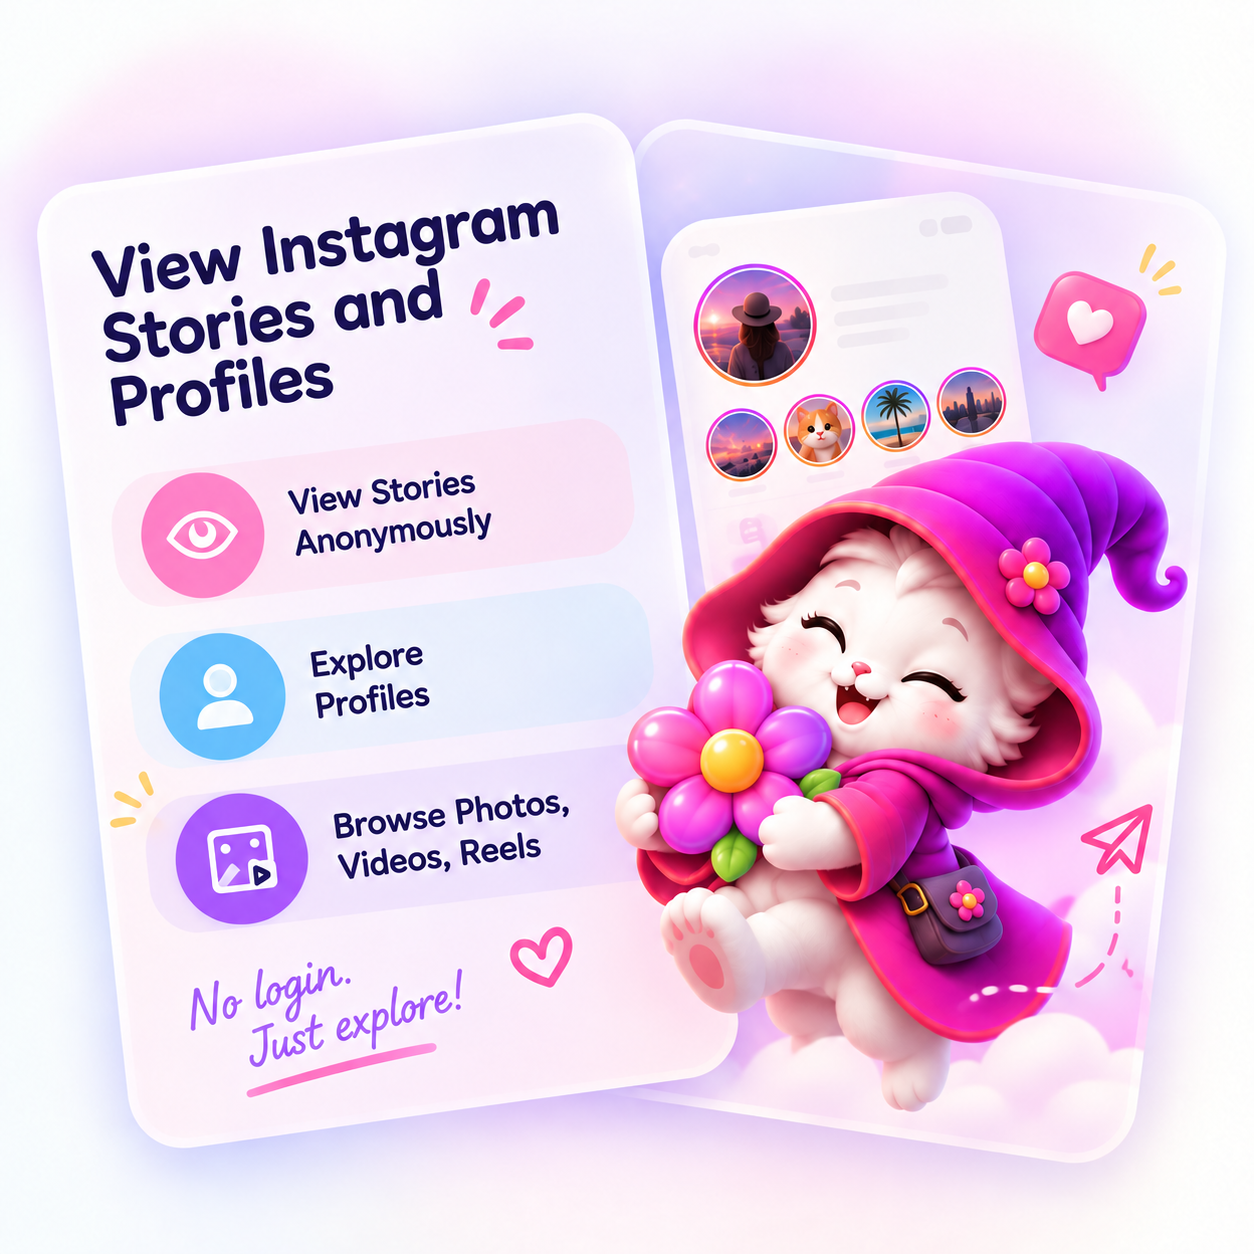
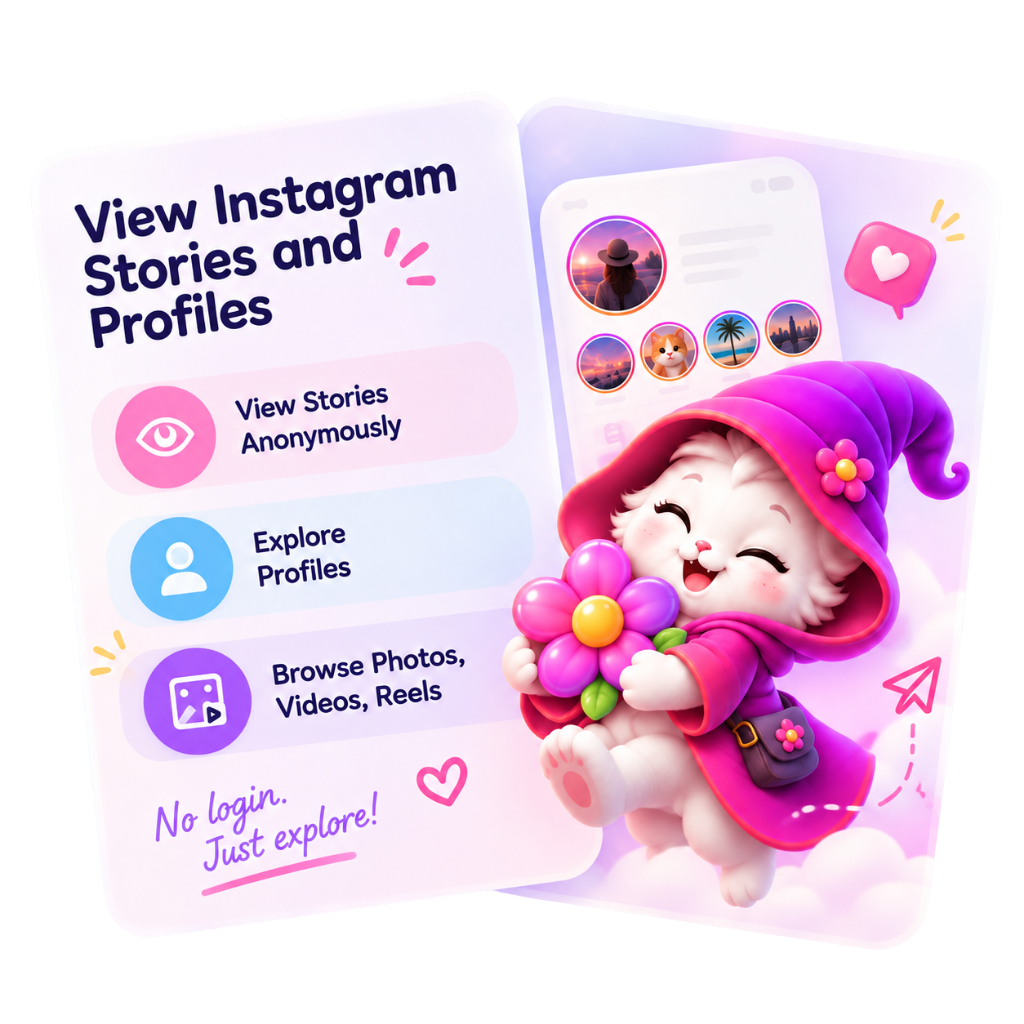
Update anom.png to new version, fix its intrinsic dimensions
New export is 1024x1024 (was 1254x1254) - updated the width/height
props to match and dropped the now-unnecessary rounded-corner class.
Verified rendering with screenshots, no overflow on mobile.

diff --git a/src/app/[locale]/page.tsx b/src/app/[locale]/page.tsx
@@ -136,9 +136,9 @@ export default async function HomePage({ params }: Props) {
           <Image
             src="/anom.png"
             alt=""
-            width={1254}
-            height={1254}
-            className="order-first mx-auto w-72 shrink-0 rounded-[20px] sm:w-96 lg:order-last lg:mx-0 lg:w-[480px]"
+            width={1024}
+            height={1024}
+            className="order-first mx-auto w-72 shrink-0 sm:w-96 lg:order-last lg:mx-0 lg:w-[480px]"
             sizes="(min-width: 1024px) 480px, 384px"
           />
           <div className="mt-6 lg:mt-0 lg:flex-1">
